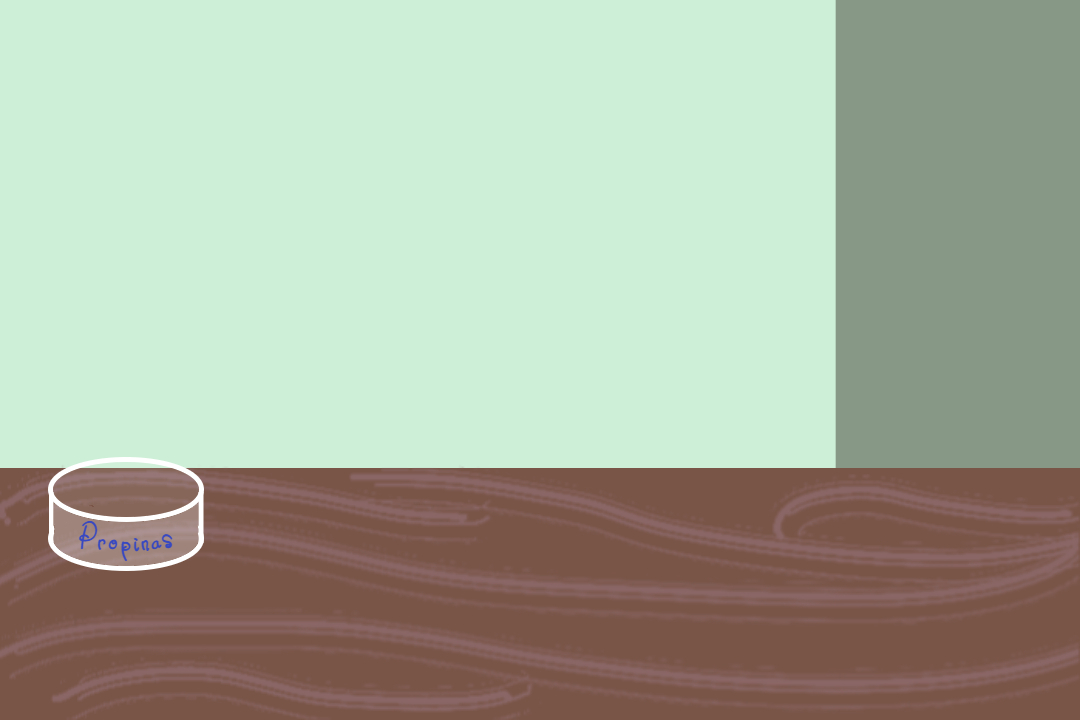
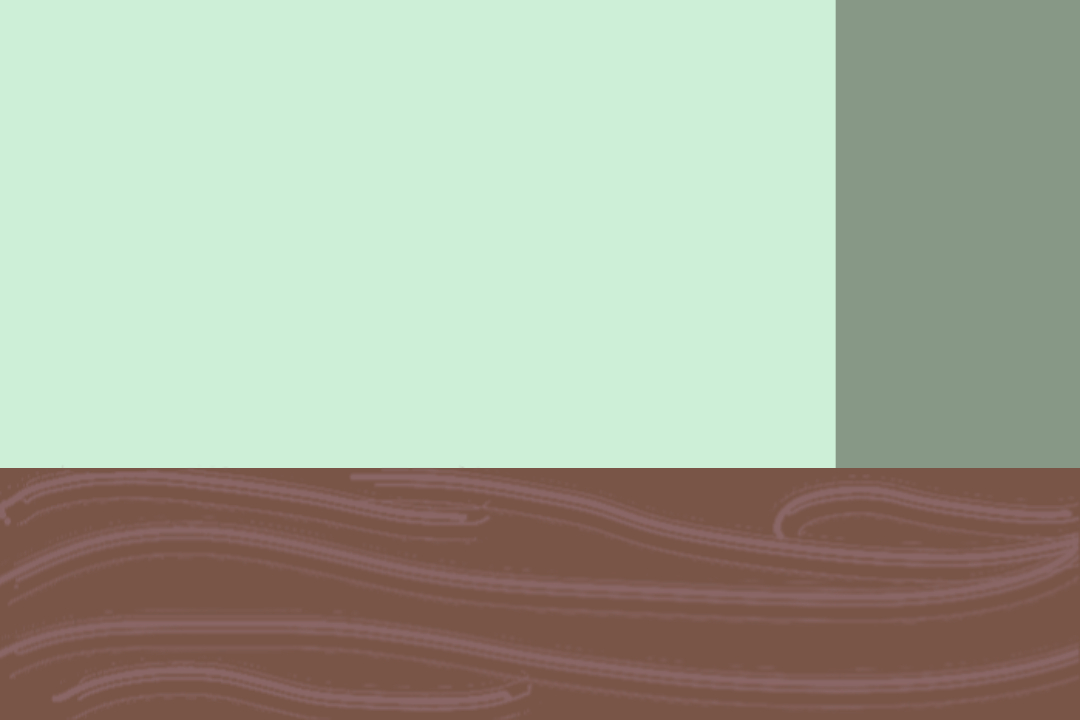
Final version

Changed region(s): [[0.0306, 0.6417, 0.2139, 0.7944], [0.0917, 0.6111, 0.1528, 0.6417]]

diff --git a/Views/solo.py b/Views/solo.py
@@ -1,34 +1,45 @@
-from PySide6.QtWidgets import QLabel, QWidget, QMessageBox
+from PySide6.QtWidgets import QLabel, QWidget, QMessageBox, QApplication
 import methods as mets
 import burgers as burgi
+import transition as trs
+import main as mn
 from PySide6.QtCore import Signal, Qt
 import random, connection as con
 
 ruta_txt = "src/AdminSoftware/res/options/options.txt"
+max_fondo = mets.obtener_tareas(ruta_txt)
+cont_fondo = 1
+
 class solo(QWidget):
     menu_principal_signal = Signal()
-    
-    def __init__(self, nombre = ""):
-        super().__init__()
 
+    def __init__(self):
+        super().__init__()
+        label = mets.load_image_fondo(self, "src/AdminSoftware/res/img/fondo_solo.jpg")
+        self.setObjectName("solo")
         self.setWindowTitle("La Cocinita - Modo Solitario")
         self.resize(1080, 720)
-        label = mets.load_image_label(self, "src/AdminSoftware/res/img/fondo_solo.jpg")
         mets.iconify(self)
         lista = generar_ordenes()
-        
+
         # region labels
         lbl_nombre = QLabel(self)
         lbl_nombre.setObjectName("titulo")
-        lbl_nombre.setText(nombre + "'s")
+        lbl_nombre.setText(mets.obtener_nombre(ruta_txt) + "'s") # type: ignore
         lbl_nombre.setAlignment(Qt.AlignmentFlag.AlignCenter)
         lbl_nombre.setGeometry(0, 0, 1080, 120)
-        
+
         self.lbl_cliente = QLabel(self)
         self.lbl_cliente.setObjectName("test")
-        self.lbl_cliente.setFixedSize(200, 270)
+        self.lbl_cliente.setFixedSize(240, 270)
         self.lbl_cliente.move(400, 200)
         mets.set_image_on_label(self.lbl_cliente, con.obtener_ruta(lista[0]), 1.2)
+
+        self.lbl_propinas = QLabel(self)
+        self.lbl_propinas.setObjectName("titulo")
+        self.lbl_propinas.setFixedSize(172,151)
+        self.lbl_propinas.move(90, 437)
+        mets.set_image_on_label(self.lbl_propinas, "src/AdminSoftware/res/img/tips/p_0.jpg", 1.2)
         # endregion
 
         # region buttons
@@ -37,30 +48,52 @@ class solo(QWidget):
         self.btn_tareas.setFixedSize(160, 60)
         self.btn_tareas.move(880, 130)
         self.btn_tareas.clicked.connect(lambda: self.on_btn_tareas_clicked(lista))
-        
+
         btn_salir = mets.ColoredButton("Menú Principal", self)
         btn_salir.setObjectName("otros")
         btn_salir.setFixedSize(160, 60)
         btn_salir.move(880, 50)
         btn_salir.clicked.connect(self.on_btn_salir_clicked)
-        # endregion   
+        # endregion
 
     def on_btn_salir_clicked(self):
-        self.menu_principal_signal.emit()
+        main_window = [widget for widget in QApplication.topLevelWidgets() if isinstance(widget, mn.MainWindow)]
+        if main_window:
+            main_window[0].show()
         self.close()
 
     def on_btn_tareas_clicked(self, lista):
+        global cont_fondo, max_fondo
+
+        # Verificar si todavía hay clientes en la lista
         if len(lista) == 0:
             QMessageBox.information(self, "Terminaste el día", "Ya no hay clientes, ¡buen trabajo!")
+            self.close()
+            self.transicion = trs.transition()
+            self.transicion.burguir_signal.connect(self.transicion.show_solo_window)
+            self.transicion.show()
+            cont_fondo = 1
             return None
         else:
-            print(lista)
+            # Actualizar la imagen del cliente y las propinas
             if len(lista) == 1:
-                self.lbl_cliente.clear()
+                mets.set_image_on_label(self.lbl_cliente, "src/AdminSoftware/res/img/cerrado.png", 1.2)
             else:
                 mets.set_image_on_label(self.lbl_cliente, con.obtener_ruta(lista[1]), 1.2)
-        
-        self.burgi = burgi.burger(lista.pop(0)) # type: ignore
+
+        # Verificar y actualizar la imagen de propinas
+        if cont_fondo <= max_fondo: # type: ignore
+            background_path = f"src/AdminSoftware/res/img/tips/p_{cont_fondo}.jpg"
+            mets.set_image_on_label(self.lbl_propinas, background_path, 1.2)
+            cont_fondo += 1
+        else:
+            # Reiniciar el contador de fondo si excede el número máximo de imágenes
+            cont_fondo = 1
+            background_path = f"src/AdminSoftware/res/img/tips/p_{cont_fondo}.jpg"
+            mets.set_image_on_label(self.lbl_propinas, background_path, 1.2)
+
+        # Mostrar la ventana de las burgers
+        self.burgi = burgi.burger(lista.pop(0))
         self.burgi.solo_signal.connect(self.show_burger_window)
         self.burgi.show()
         self.close()
@@ -73,4 +106,3 @@ def generar_ordenes(num_elementos = mets.obtener_tareas(ruta_txt)):
     random.shuffle(rango)
     lista_generada = rango[:num_elementos]
     return lista_generada
-

diff --git a/Views/main.py b/Views/main.py
@@ -3,17 +3,18 @@ import methods as mets
 import solo as solo
 import multi as multi
 import options as op
-from PySide6.QtWidgets import QApplication, QMainWindow, QLabel
+from PySide6.QtWidgets import QMainWindow, QLabel
 
 ruta_txt = "src/AdminSoftware/res/options/options.txt"
 class MainWindow(QMainWindow):
     def __init__(self):
         super().__init__()
         self.setWindowTitle("La Cocinita")
-        self.resize(1080, 720)
+        self.resize(1080, 700)
         self.setup_buttons()
         mets.iconify(self)
-
+        self.solo = solo.solo()
+        
         # Create the title label
         label = QLabel(self)
         label.setObjectName("titulo")
@@ -44,15 +45,12 @@ class MainWindow(QMainWindow):
     # region button functions
     def on_btn_solo_clicked(self):
         self.close()
-        nombre_extraido = obtener_nombre(ruta_txt)
-        nombre = nombre_extraido if nombre_extraido is not None else ""
-        self.solo = solo.solo(nombre=nombre)
-        self.solo.menu_principal_signal.connect(self.show_main_window)
+        self.solo = solo.solo()
         self.solo.show()
 
     def on_btn_multi_clicked(self):
         self.close()
-        nombre_extraido = obtener_nombre(ruta_txt)
+        nombre_extraido = mets.obtener_nombre(ruta_txt)
         nombre = nombre_extraido if nombre_extraido is not None else ""
         self.multi = multi.multi(nombre=nombre)
         self.multi.menu_principal_signal.connect(self.show_main_window)
@@ -60,7 +58,7 @@ class MainWindow(QMainWindow):
 
     def on_btn_opciones_clicked(self):
         self.close()
-        nombre = obtener_nombre(ruta_txt)
+        nombre = mets.obtener_nombre(ruta_txt)
         tareas = mets.obtener_tareas(ruta_txt)
         self.opciones = op.options(nombre or "", tareas or 0)
         self.opciones.menu_principal_signal.connect(self.show_main_window)
@@ -69,27 +67,4 @@ class MainWindow(QMainWindow):
     def show_main_window(self):
         self.show()
     # endregion
-
-def obtener_nombre(ruta_archivo):
-    try:
-        # Abrir el archivo en modo lectura
-        with open(ruta_archivo, 'r') as archivo:
-            # Leer todas las líneas del archivo
-            lineas = archivo.readlines()
-
-            # Buscar la línea que contiene "Nombre:"
-            for linea in lineas:
-                if "Nombre:" in linea:
-                    # Extraer el nombre después de "Nombre:"
-                    nombre = linea.split(":")[1].strip()
-                    return nombre
-
-    except FileNotFoundError:
-        print("El archivo no se encontró.")
-        return None
-
-app = QApplication(sys.argv)
-window = MainWindow()
-mets.apply_stylesheet(app)
-window.show()
-sys.exit(app.exec())
+    

diff --git a/Views/methods.py b/Views/methods.py
@@ -6,7 +6,7 @@ class ColoredButton(QPushButton):
     def __init__(self, text, parent=None):
         super().__init__(text, parent)
 
-def load_image_label(window, image_path):
+def load_image_fondo(window, image_path):
     label = QLabel(window)
     pixmap = QPixmap(image_path)
     label.setPixmap(pixmap)
@@ -42,3 +42,21 @@ def set_image_on_label(label, image_path, number):
         pixmap = pixmap.scaledToWidth(label.width() * number)
         label.setPixmap(pixmap)
         label.setAlignment(Qt.AlignmentFlag.AlignCenter)
+        
+def obtener_nombre(ruta_archivo):
+    try:
+        # Abrir el archivo en modo lectura
+        with open(ruta_archivo, 'r') as archivo:
+            # Leer todas las líneas del archivo
+            lineas = archivo.readlines()
+
+            # Buscar la línea que contiene "Nombre:"
+            for linea in lineas:
+                if "Nombre:" in linea:
+                    # Extraer el nombre después de "Nombre:"
+                    nombre = linea.split(":")[1].strip()
+                    return nombre
+
+    except FileNotFoundError:
+        print("El archivo no se encontró.")
+        return None

diff --git a/Views/transition.py b/Views/transition.py
@@ -1,0 +1,33 @@
+from PySide6.QtWidgets import QLabel, QWidget
+import methods as mets
+import solo as solo
+from PySide6.QtCore import Signal, Qt
+
+class transition(QWidget):
+    burguir_signal = Signal()
+    
+    def __init__(self):
+        super().__init__()
+        self.setWindowTitle("La Cocinita - Transición de día")
+        self.resize(1080, 720)
+        mets.iconify(self)
+
+        lbl_anuncio = QLabel(self)
+        lbl_anuncio.setAlignment(Qt.AlignmentFlag.AlignCenter)
+        lbl_anuncio.setFixedSize(500, 500)
+        lbl_anuncio.move(300, 0)
+        mets.set_image_on_label(lbl_anuncio, "src/AdminSoftware/res/img/abierto.png", 1)
+        
+        btn_iniciar = mets.ColoredButton("Iniciar nuevo día", self)
+        btn_iniciar.setObjectName("llamada")
+        btn_iniciar.setFixedSize(160, 60)
+        btn_iniciar.move(500, 550)
+        btn_iniciar.clicked.connect(self.on_btn_iniciar_clicked)
+        
+    def on_btn_iniciar_clicked(self):
+        self.burguir_signal.emit()
+        self.close()
+        
+    def show_solo_window(self):
+        self.solo_window = solo.solo()
+        self.solo_window.show()

diff --git a/Views/connection.py b/Views/connection.py
@@ -14,7 +14,6 @@ def connect():
             user=user,
             password=password
         )
-        print("Conexión exitosa")
         return connection
     except Exception as e:
         print(f"Error al conectar a PostgreSQL: {e}")
@@ -48,7 +47,6 @@ def get_cliente(cliente_id):
         if conex:
             cursor.close()
             conex.close()
-            print("Conexión cerrada.")
 
 def obtener_ruta(cliente_id):
     cliente_data = get_cliente(cliente_id)
@@ -57,7 +55,6 @@ def obtener_ruta(cliente_id):
         return ruta
     else:
         return None
-
 
 def obtener_nombre(cliente_id):
     cliente_data = get_cliente(cliente_id)

diff --git a/Views/multi.py b/Views/multi.py
@@ -11,7 +11,7 @@ class multi(QWidget):
 
         self.setWindowTitle("La Cocinita - Modo Multijugador")
         self.resize(1080, 720)
-        label = mets.load_image_label(self, "src/AdminSoftware/res/img/fondo_multi.jpg")
+        label = mets.load_image_fondo(self, "src/AdminSoftware/res/img/fondo_multi.jpg")
         mets.iconify(self)
         self.setup_ui()
         

diff --git a/Views/start.py b/Views/start.py
@@ -1,0 +1,10 @@
+import sys
+import methods as mets
+import main as mn
+from PySide6.QtWidgets import QApplication
+
+app = QApplication(sys.argv)
+window = mn.MainWindow()
+mets.apply_stylesheet(app)
+window.show()
+sys.exit(app.exec())
